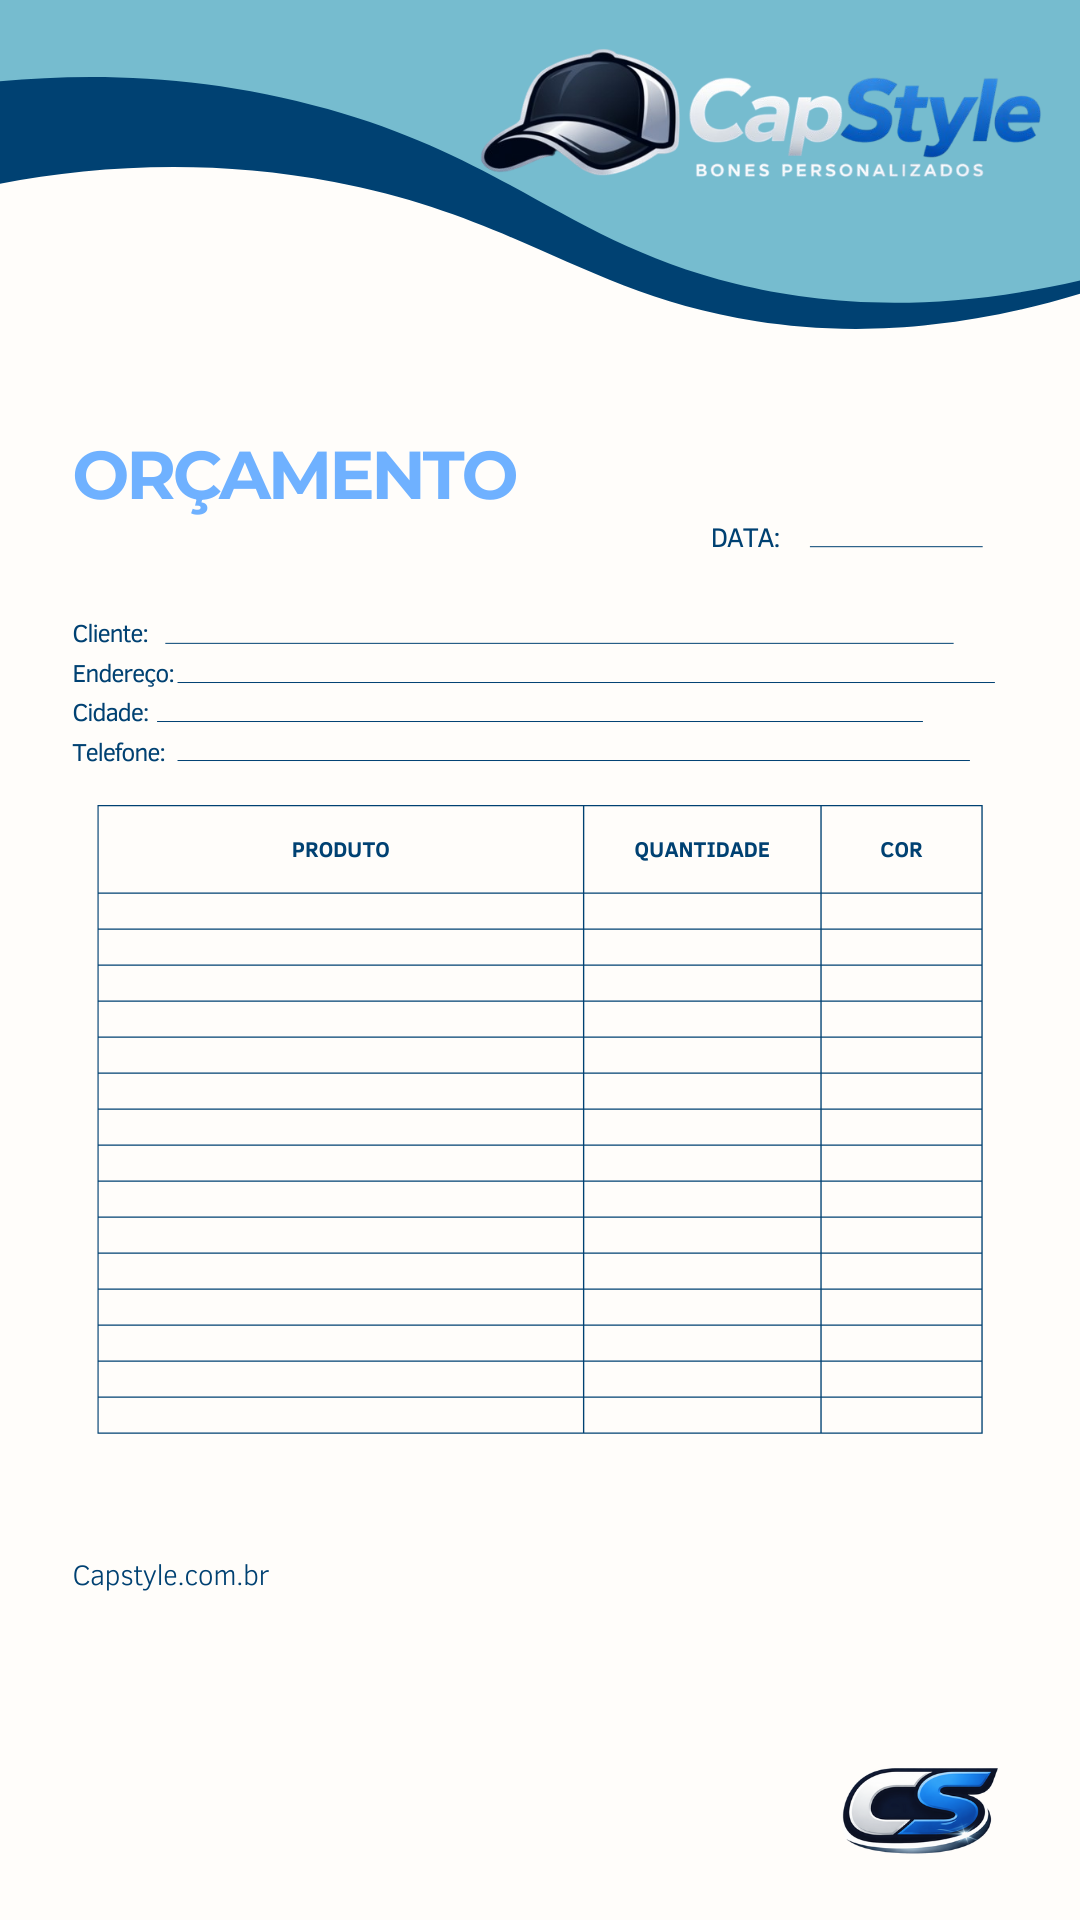
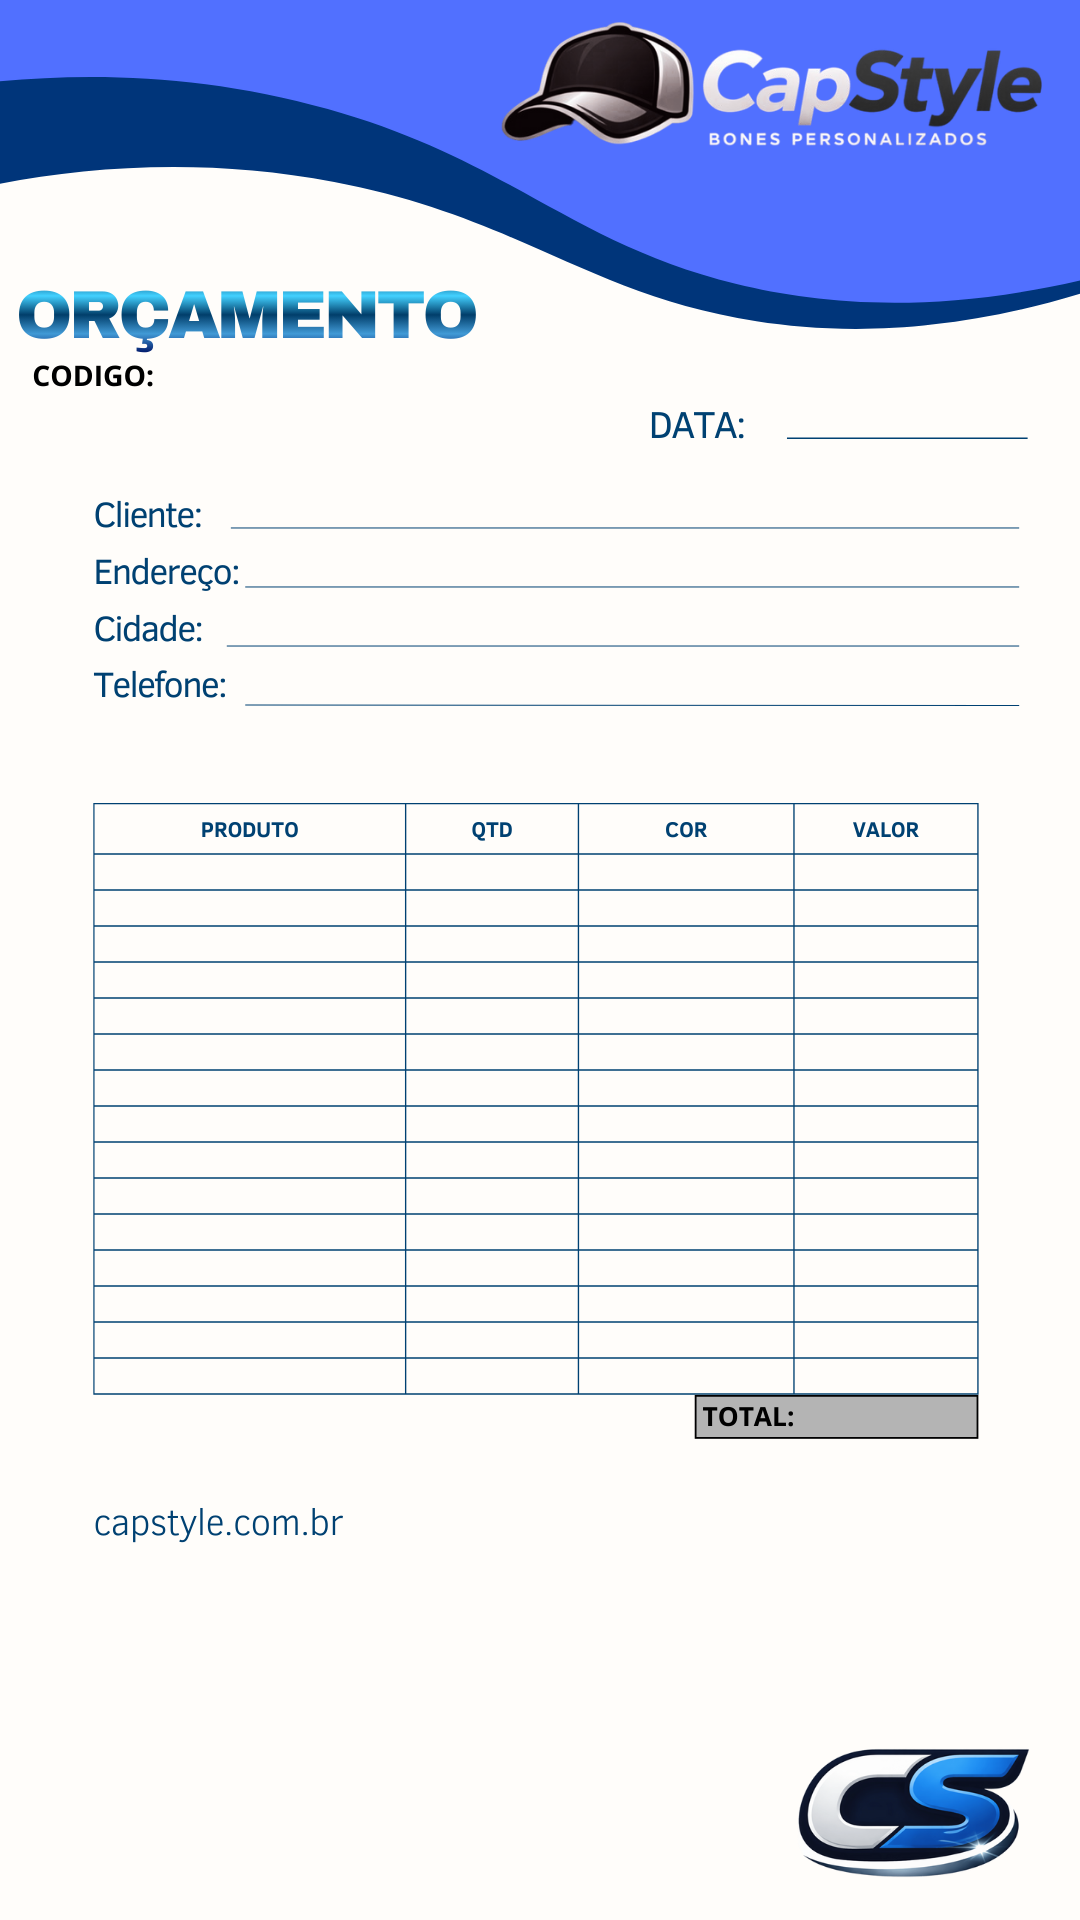
bug resolvido e layout do orçamento alterado

diff --git a/static/js/pedido.js b/static/js/pedido.js
@@ -37,23 +37,33 @@ function adicionarItem(produto) {
         return;
     }
 
+    // Verifica se o item já existe no pedido (mesmo produto e cor)
     const existente = itensPedido.find(i => i.produto === produto.nome && i.cor === cor);
 
     if (existente) {
+        // Se existir, soma a quantidade e atualiza o subtotal
         existente.quantidade += qtd;
+        existente.subtotal = existente.quantidade * produto.valor;
     } else {
+        // Se não existir, adiciona novo item com valor e subtotal
         itensPedido.push({
             produto: produto.nome,
             categoria: produto.categoria,
             cor,
-            quantidade: qtd
+            quantidade: qtd,
+            valor: produto.valor,           // VALOR UNITÁRIO
+            subtotal: qtd * produto.valor   // SUBTOTAL
         });
     }
 
+    // Reseta a quantidade temporária
     quantidadesTemp[produto.nome] = 0;
+
+    // Atualiza resumo e renderização
     atualizarResumoPedido();
     renderizarProdutosPedido();
 }
+
 
 // ================= ATUALIZA RESUMO DE ITENS =================
 function atualizarResumoPedido() {
@@ -72,6 +82,7 @@ function atualizarResumoPedido() {
         return;
     }
 
+    // Lista os itens do orçamento
     itensPedido.forEach((item, i) => {
         const li = document.createElement("li");
         li.className = "orcamento-item";
@@ -80,12 +91,24 @@ function atualizarResumoPedido() {
                 <strong>${item.produto}</strong>
                 <span>Cor: ${item.cor}</span>
                 <span>Quantidade: ${item.quantidade}</span>
+                <span>Valor unitário: R$ ${item.valor.toFixed(2)}</span>
+                <span>Subtotal: R$ ${item.subtotal.toFixed(2)}</span>
             </div>
             <button class="btn-remover" onclick="removerItem(${i})">✕</button>
         `;
         lista.appendChild(li);
     });
+
+    // Calcula total geral
+    const totalGeral = itensPedido.reduce((acc, item) => acc + item.subtotal, 0);
+
+    // Adiciona total ao final
+    const totalLi = document.createElement("li");
+    totalLi.className = "orcamento-total";
+    totalLi.innerHTML = `<strong>Total do orçamento: R$ ${totalGeral.toFixed(2)}</strong>`;
+    lista.appendChild(totalLi);
 }
+
 
 // ================= REMOVER ITEM =================
 function removerItem(index) {
@@ -141,8 +164,10 @@ function renderizarProdutosPedido() {
         info.className = "info-produto";
         info.innerHTML = `
             <h3>${produto.nome}</h3>
+            <span class="preco-produto">R$ ${produto.valor.toFixed(2)}</span>
             <span class="minimo-info">Mínimo de 10 unidades</span>
         `;
+
 
         const selectCor = document.createElement("select");
         selectCor.className = "select-cor";

diff --git a/static/css/home.css b/static/css/home.css
@@ -289,16 +289,64 @@ body {
     box-shadow: 0 35px 90px rgba(0,0,0,.75);
 }
 
+/* =========================
+   PRODUTO - SLIDE DE IMAGENS
+========================= */
 .produto-imagens {
+    position: relative;
     width: 100%;
     aspect-ratio: 1 / 1;
     overflow: hidden;
+    border-radius: 20px;
 }
 
 .produto-imagens img {
     width: 100%;
     height: 100%;
     object-fit: cover;
+    display: none;
+    transition: transform 0.35s ease, opacity 0.35s ease;
+    cursor: pointer;
+    border-radius: 20px;
+}
+
+.produto-imagens img.ativa {
+    display: block;
+    transform: scale(1);
+    opacity: 1;
+}
+
+/* BOTÕES DE NAVEGAÇÃO */
+.btn-slide {
+    position: absolute;
+    top: 50%;
+    transform: translateY(-50%);
+    background: rgba(0,0,0,0.4);
+    border: none;
+    color: #fff;
+    font-size: 28px;
+    width: 36px;
+    height: 36px;
+    border-radius: 50%;
+    cursor: pointer;
+    display: flex;
+    align-items: center;
+    justify-content: center;
+    transition: background 0.3s ease, transform 0.2s ease;
+    z-index: 10;
+}
+
+.btn-slide:hover {
+    background: rgba(30,111,217,0.85);
+    transform: translateY(-50%) scale(1.1);
+}
+
+.btn-slide.esq {
+    left: 10px;
+}
+
+.btn-slide.dir {
+    right: 10px;
 }
 
 .info-produto {
@@ -350,6 +398,11 @@ body {
     font-weight: 800;
     cursor: pointer;
 }
+.btn-add-carrinho:disabled {
+    opacity: 0.5;
+    cursor: not-allowed;
+}
+
 
 /* ==================================================
    COMO FUNCIONA

diff --git a/templates/pedido.html b/templates/pedido.html
@@ -25,11 +25,11 @@
         <div class="menu-toggle" id="menuToggle">☰</div>
 
         <nav class="navbar-menu" id="navbarMenu">
-            <a href="/" class="active">Início</a>
+            <a href="/">Início</a>
             <span class="separator">|</span>
             <a href="/#catalogo">Catálogo</a>
             <span class="separator">|</span>
-            <a href="/pedido">Orçamento</a>
+            <a href="/pedido" class="active">Orçamento</a>
             <span class="separator">|</span>
             <a href="/#como-funciona">Como funciona</a>
             <span class="separator">|</span>
@@ -108,9 +108,8 @@
 <script id="produtos-data" type="application/json">
 {{ produtos | tojson }}
 </script>
-
-<script src="{{ url_for('static', filename='js/home.js') }}"></script>
 <script src="{{ url_for('static', filename='js/pedido.js') }}"></script>
+<script src="{{ url_for('static', filename='js/home.js') }}"></script>
 
 </body>
 </html>

diff --git a/static/js/home.js b/static/js/home.js
@@ -83,8 +83,10 @@ function renderizarProdutos() {
         info.innerHTML = `
             <span class="badge-categoria">${produto.categoria}</span>
             <h3>${produto.nome}</h3>
+            <span class="preco-produto">R$ ${produto.valor.toFixed(2)}</span> <!-- NOVO -->
             <span class="minimo-info">Mínimo de 10 unidades por pedido</span>
         `;
+
 
         /* ===== SELECT COR (MANTIDO) ===== */
         const selectCor = document.createElement("select");
@@ -127,7 +129,8 @@ function renderizarProdutos() {
                 produto: produto.nome,
                 categoria: produto.categoria,
                 cor: corSelecionada.cor,
-                quantidade: qtd
+                quantidade: qtd,
+                valor: produto.valor  // NOVO
             };
 
             localStorage.setItem(

diff --git a/templates/add.html b/templates/add.html
@@ -19,6 +19,10 @@
             <label>Nome do produto</label>
             <input type="text" name="nome" required>
         </div>
+        <div class="campo">
+            <label>Valor</label>
+            <input type="text" name="valor" required>
+        </div>
 
         <div class="campo">
             <label>Categoria</label>

diff --git a/templates/edit.html b/templates/edit.html
@@ -17,6 +17,10 @@
 
         <input type="text" id="nome" value="{{ item.nome }}" required>
 
+        <label for="valor">Valor (R$):</label>
+        <input type="text" name="valor" value="{{ item.valor }}">
+
+
         <div class="campo">
             <label>Categoria</label>
             <select id="categoria" required>

diff --git a/app.py b/app.py
@@ -59,6 +59,7 @@ class Produto(db.Model):
     id = db.Column(db.Integer, primary_key=True)
     nome = db.Column(db.String(100), nullable=False)
     categoria = db.Column(db.String(50), nullable=False)
+    valor = db.Column(db.Float, nullable=False, default=0.0)  # NOVO CAMPO
     cores = db.relationship(
         "ProdutoCor",
         backref="produto",
@@ -94,9 +95,11 @@ def carregar_produtos():
             "id": produto.id,
             "nome": produto.nome,
             "categoria": produto.categoria,
+            "valor": produto.valor,  # ADICIONADO
             "cores": [{"cor": c.cor, "imagem": c.imagem} for c in produto.cores]
         })
     return produtos
+
 
 def gerar_id_orcamento():
     while True:
@@ -138,27 +141,37 @@ def gerar_imagem_orcamento(
 
     cor = (0, 51, 102)
 
+    # Data e código
     data_atual = datetime.datetime.now().strftime("%d/%m/%Y")
-    draw.text((820, 514), data_atual, fill=cor, font=fonte_regular)
+    draw.text((800, 400), data_atual, fill=cor, font=fonte_regular)
+    draw.text((163, 358), f"Código: {id_pedido}", fill=cor, font=fonte_codigo)
 
-    draw.text((200, 514), f"Código: {id_pedido}", fill=cor, font=fonte_codigo)
+    # Dados do cliente
+    draw.text((238, 493), cliente,  fill=cor, font=fonte_regular)
+    draw.text((252, 550), endereco, fill=cor, font=fonte_regular)
+    draw.text((235, 610), cidade,   fill=cor, font=fonte_regular)
+    draw.text((252, 667), telefone, fill=cor, font=fonte_regular)
 
-    draw.text((170, 610), cliente,  fill=cor, font=fonte_regular)
-    draw.text((182, 647), endereco, fill=cor, font=fonte_regular)
-    draw.text((160, 688), cidade,   fill=cor, font=fonte_regular)
-    draw.text((180, 725), telefone, fill=cor, font=fonte_regular)
-
-    y_inicial = 895
+    # Itens
+    y_inicial = 855
     altura_linha = 36
 
     for index, item in enumerate(itens):
         y = y_inicial + index * altura_linha
         draw.text((180, y), str(item.get("produto", "")), fill=cor, font=fonte_pequena)
-        draw.text((700, y), str(item.get("quantidade", "")), fill=cor, font=fonte_pequena)
-        draw.text((880, y), str(item.get("cor", "")), fill=cor, font=fonte_pequena)
+        draw.text((471, y), str(item.get("quantidade", "")), fill=cor, font=fonte_pequena)
+        draw.text((650, y), str(item.get("cor", "")), fill=cor, font=fonte_pequena)
+        # Mostra o subtotal de cada item
+        draw.text((821, y), f"R$ {item.get('subtotal', 0):.2f}", fill=cor, font=fonte_pequena)
 
+    # ---------------- TOTAL FINAL ----------------
+    total_final = sum(item.get("subtotal", 0) for item in itens)
+    draw.text((807, 1400), f"R$ {total_final:.2f}", fill=cor, font=fonte_codigo)
+
+    # Salva imagem final
     imagem.save(caminho_saida)
     return caminho_saida
+
 
 # ================= CLOUDINARY WRAPPER =================
 def gerar_imagem_orcamento_cloudinary(id_pedido, cliente, endereco, itens):
@@ -174,7 +187,7 @@ def gerar_imagem_orcamento_cloudinary(id_pedido, cliente, endereco, itens):
         cidade=cidade,
         telefone=telefone,
         itens=itens,
-        caminho_saida=caminho_local
+        caminho_saida=caminho_local,
     )
 
     upload = cloudinary.uploader.upload(
@@ -274,13 +287,16 @@ def admin_add_produto():
 
     nome = request.form.get("nome")
     categoria = request.form.get("categoria")
+    valor = request.form.get("valor", "0").replace(",", ".")  # permite vírgula
+    try:
+        valor = float(valor)
+    except:
+        valor = 0.0
 
-    if not nome or not categoria:
-        abort(400, "Dados obrigatórios")
-
-    produto = Produto(nome=nome, categoria=categoria)
+    produto = Produto(nome=nome, categoria=categoria, valor=valor)
     db.session.add(produto)
     db.session.commit()
+
 
     for key in request.form:
         if key.startswith("cor_"):
@@ -320,6 +336,12 @@ def admin_update_produto(id):
 
     produto.nome = request.form.get("nome")
     produto.categoria = request.form.get("categoria")
+    valor = request.form.get("valor", "0").replace(",", ".")
+    try:
+        produto.valor = float(valor)
+    except:
+        produto.valor = 0.0
+
 
     cores_removidas = request.form.get("cores_removidas")
     if cores_removidas:

diff --git a/init_db.py b/init_db.py
@@ -7,7 +7,8 @@ cur.execute("""
 CREATE TABLE IF NOT EXISTS produtos (
     id INTEGER PRIMARY KEY AUTOINCREMENT,
     nome TEXT NOT NULL,
-    categoria TEXT NOT NULL
+    categoria TEXT NOT NULL,
+    valor REAL NOT NULL DEFAULT 0.0  -- novo campo
 )
 """)
 
